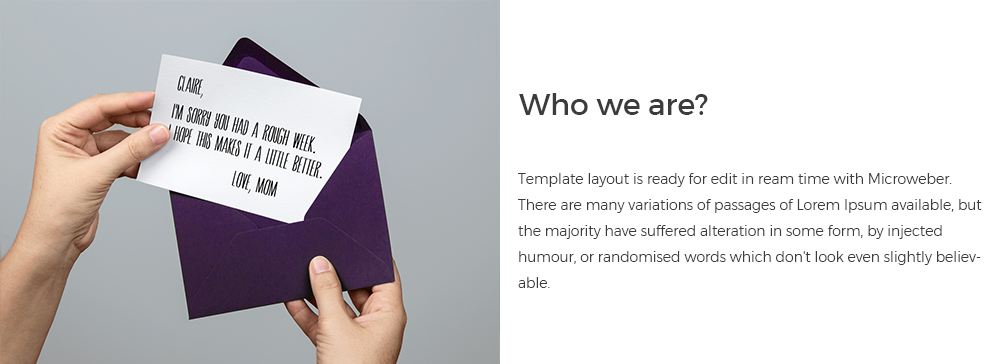
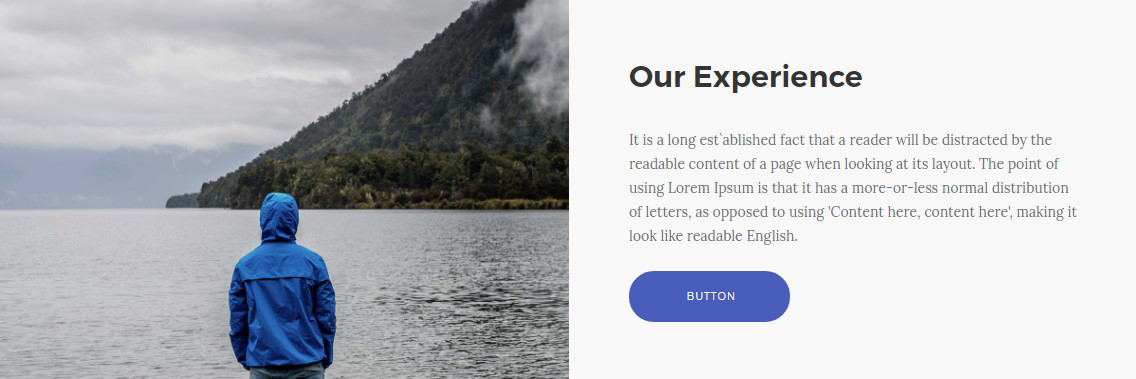
updates

diff --git a/userfiles/templates/dream/modules/contact_form/templates/default.php b/userfiles/templates/dream/modules/contact_form/templates/default.php
@@ -29,23 +29,32 @@ description: Default contact form
         <i class="icon-MaleFemale"></i>
         <input class="validate-required" type="text" name="first_name" placeholder="Your Name"/>
     </div>
+
     <div class="input-with-icon col-sm-6">
         <i class="icon-Email"></i>
         <input class="validate-required validate-email" type="email" name="email" placeholder="Email Address"/>
     </div>
+
     <div class="input-with-icon col-sm-6">
         <i class="icon-Phone-2"></i>
         <input type="tel" name="phone" placeholder="Phone Number"/>
     </div>
+
+    <div class="col-xs-12">
+        <module type="custom_fields" data-id="<?php print $params['id'] ?>" data-for="module" template="skin-1" default-fields="" input_class="form-control"/>
+    </div>
+
     <div class="col-sm-12">
         <textarea class="validate-required" name="message" placeholder="Your Message" rows="8"></textarea>
     </div>
+
     <?php if (get_option('disable_captcha', $params['id']) != 'y'): ?>
         <div class="col-sm-12">
             <module type="captcha"/>
-            <br />
+            <br/>
         </div>
     <?php endif; ?>
+
     <div class="col-sm-12">
         <button type="submit" class="btn btn--primary">Send</button>
     </div>

diff --git a/userfiles/elements/skin-2.php b/userfiles/elements/skin-2.php
@@ -1,7 +1,7 @@
 <div class="mw-static-element mw-vertical-centered-text-and-image" id="text-image-left-<?php print CONTENT_ID; ?>">
     <div class="image">
-        <div class="mw-image-holder" style="background-image: url('<?php print elements_url() ?>images/default-1.jpg');">
-            <img src="<?php print elements_url() ?>images/default-1.jpg" alt=""/>
+        <div class="mw-image-holder" style="background-image: url('<?php print elements_url() ?>images/default-8.jpg');">
+            <img src="<?php print elements_url() ?>images/default-8.jpg" alt=""/>
             <span class="mw-image-holder-overlay"></span>
         </div>
     </div>

diff --git a/userfiles/elements/skin-3.php b/userfiles/elements/skin-3.php
@@ -1,6 +1,6 @@
 <div class="mw-static-element mw-head-image" id="head-image-<?php print CONTENT_ID; ?>">
-    <div class="mw-image-holder" style="background-image: url('<?php print elements_url() ?>images/default-3.jpg');">
-        <img src="<?php print elements_url() ?>images/default-3.jpg" alt=""/>
+    <div class="mw-image-holder" style="background-image: url('<?php print elements_url() ?>images/default-6.jpg');">
+        <img src="<?php print elements_url() ?>images/default-6.jpg" alt=""/>
         <span class="mw-image-holder-overlay"></span>
         <div class="mw-image-holder-content" style="">
             <div class="content-holder">

diff --git a/userfiles/elements/skin-4.php b/userfiles/elements/skin-4.php
@@ -9,8 +9,8 @@
     </div>
 
     <div class="image">
-        <div class="mw-image-holder" style="background-image: url('<?php print elements_url() ?>images/default-1.jpg');">
-            <img src="<?php print elements_url() ?>images/default-1.jpg" alt=""/>
+        <div class="mw-image-holder" style="background-image: url('<?php print elements_url() ?>images/default-9.jpg');">
+            <img src="<?php print elements_url() ?>images/default-9.jpg" alt=""/>
             <span class="mw-image-holder-overlay"></span>
         </div>
     </div>

diff --git a/userfiles/templates/dream/modules/layouts/templates/skin-69.php b/userfiles/templates/dream/modules/layouts/templates/skin-69.php
@@ -12,7 +12,12 @@ position: 0
 
 ?>
 
-<?php include 'settings_padding_front.php'; ?>
+<?php
+include 'settings_padding_front.php';
+if($padding === null OR $padding === false){
+    $padding = 'space--0';
+}
+?>
 
 <?php
 /* Overlay with Color */
